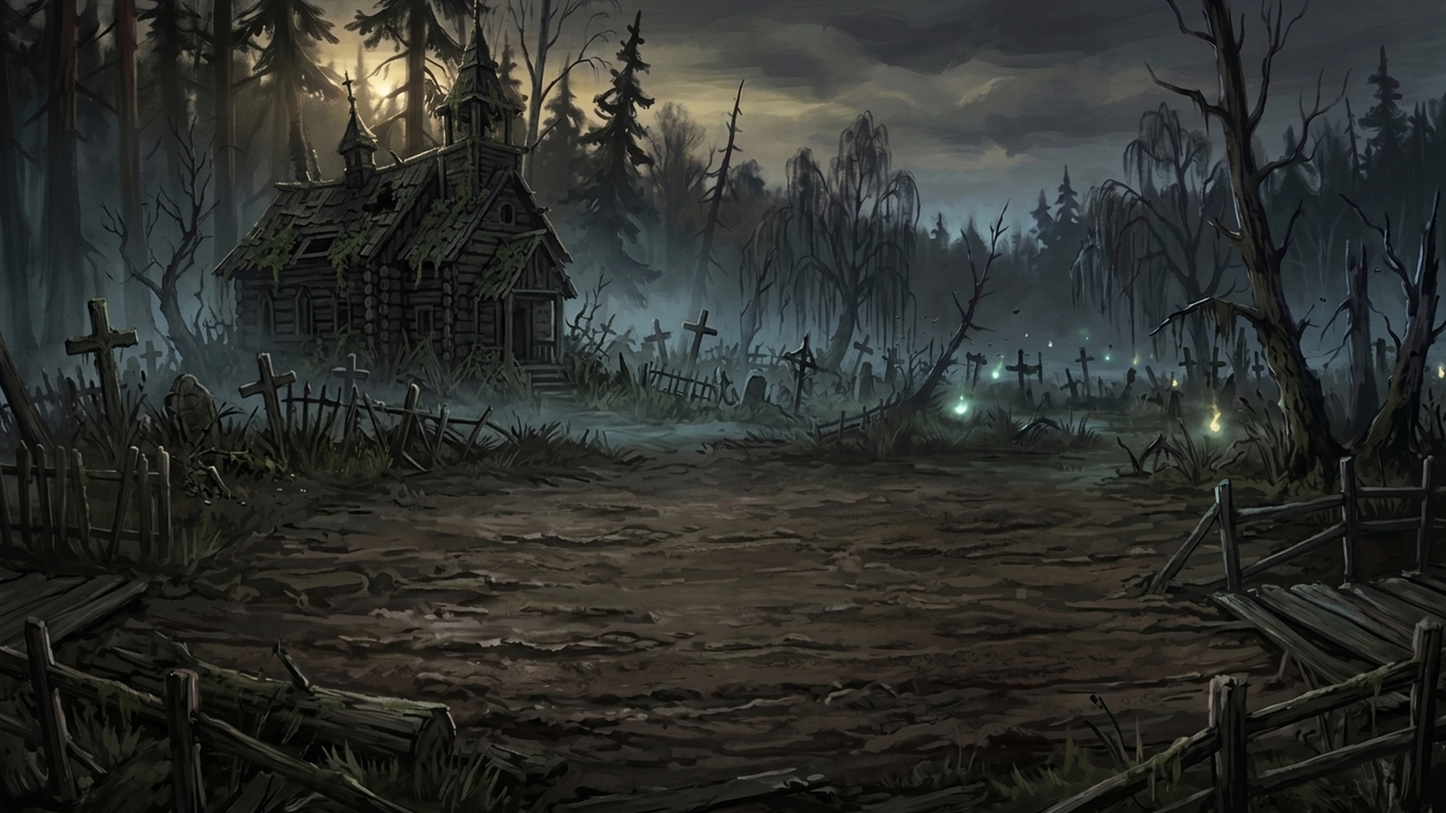
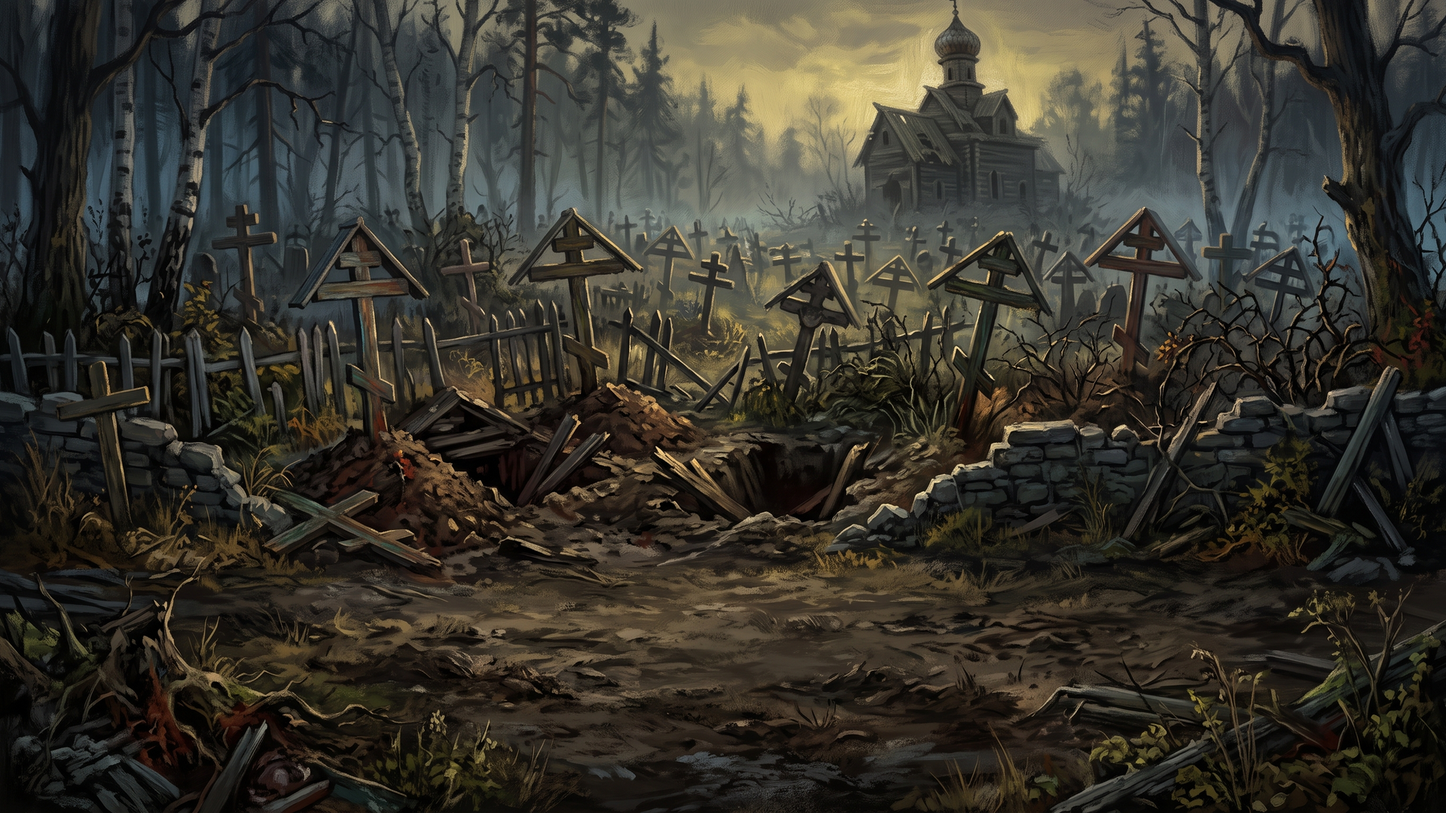
Upyr's backdrop restored and the layout plan dropped; the seal lies on the table right of the book
Bogatyr's guard pose.

diff --git a/crates/game/src/book.rs b/crates/game/src/book.rs
@@ -1094,14 +1094,14 @@ fn setup(
             ));
         });
 
-    // the seal on the cord binding the leaves beyond this one: it hangs out of the block at the
-    // fore-edge, and goes when the next act frees them
+    // the seal on the cord binding the leaves beyond this one: its cord comes out from under the
+    // book, and the wax lies on the table to the right of it
     let seal_mat = materials.add(StandardMaterial { base_color_texture: art.image(&assets, "book/seal"), base_color: Color::srgb(0.62, 0.55, 0.5), alpha_mode: AlphaMode::Blend, perceptual_roughness: 0.85, ..default() });
     commands.spawn((
         Seal,
         Mesh3d(meshes.add(Plane3d::default().mesh().size(0.34, 0.166))),
         MeshMaterial3d(seal_mat),
-        Transform::from_xyz(GUTTER + PAGE_W + 0.03, 0.06, 0.0),
+        Transform::from_xyz(GUTTER + PAGE_W + 0.15, 0.01, 0.0),
         bevy::light::NotShadowCaster,
         bevy::light::NotShadowReceiver,
         Visibility::Hidden,
